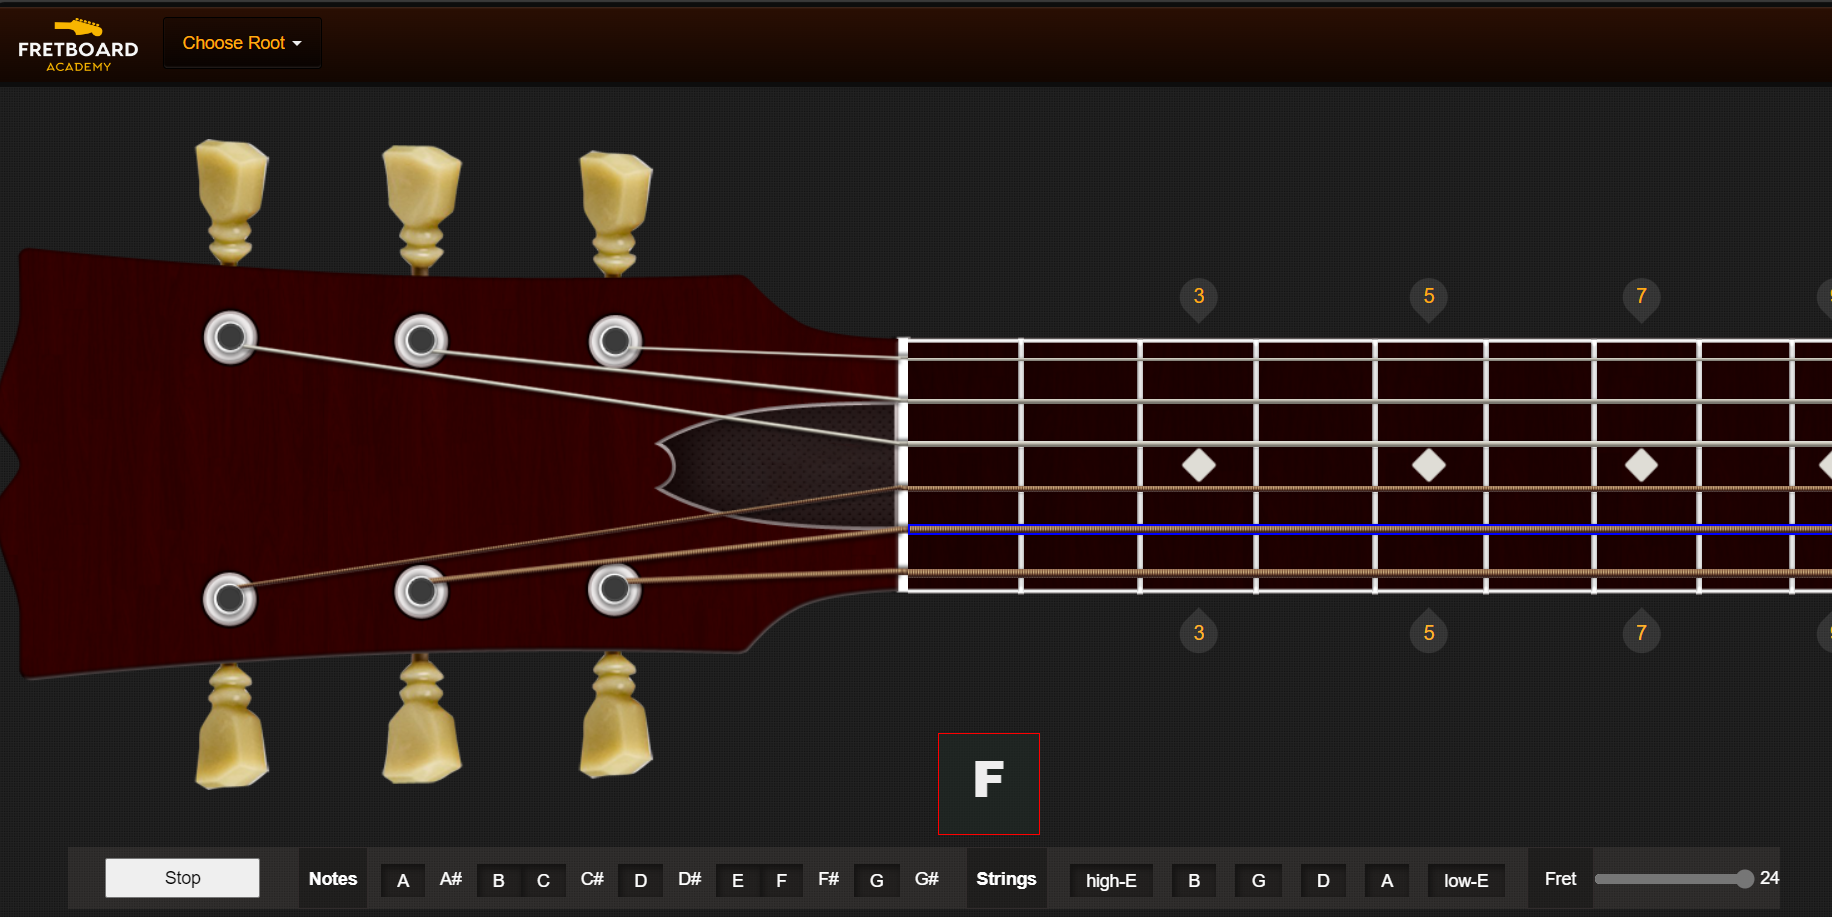
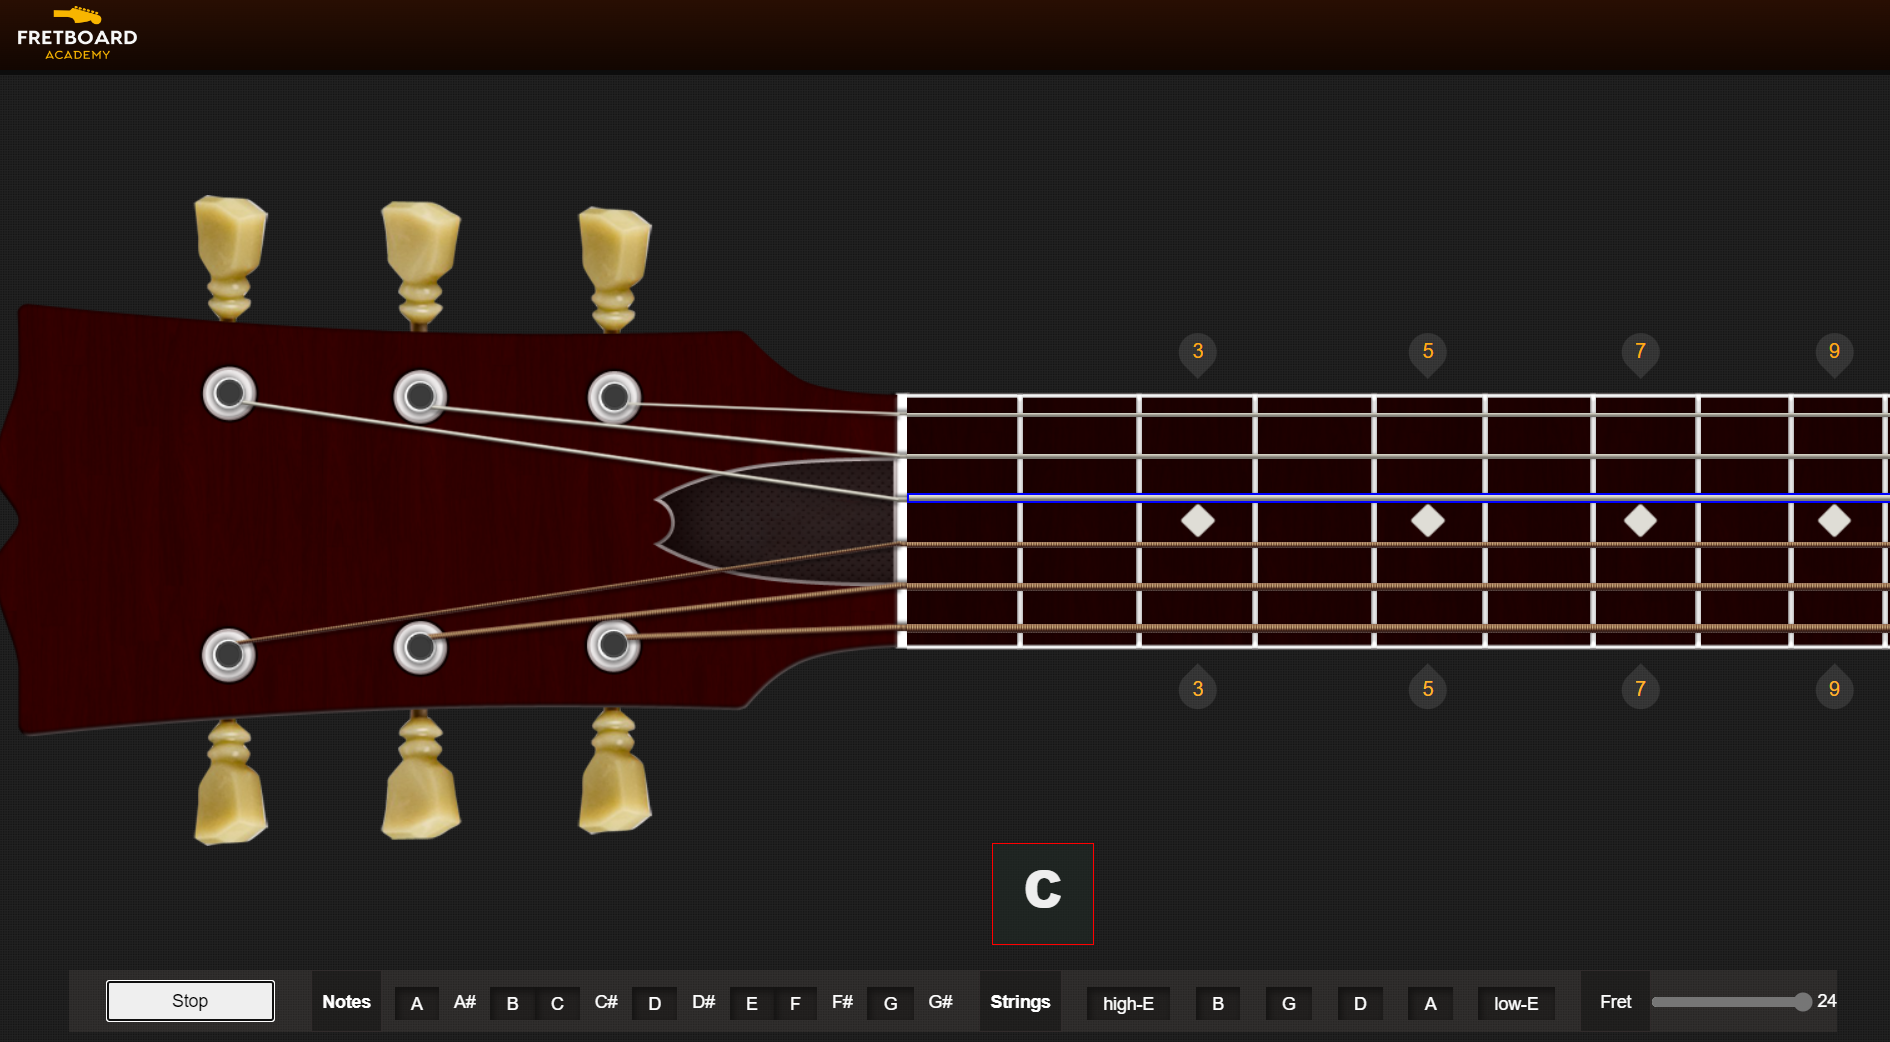
update readme

diff --git a/src/components/NavBar.vue b/src/components/NavBar.vue
@@ -9,7 +9,7 @@
                   <span class='icon-bar'></span>
                 </button>
                 <div class='brand'>Fretboard Academy - Master the guitar fretboard</div>
-                <DropDown Title='Choose Root' :items='choseNotesItems' />
+                <DropDown v-if="false" Title='Choose Root' :items='choseNotesItems' />
               </div>
             </div>
           </div>
